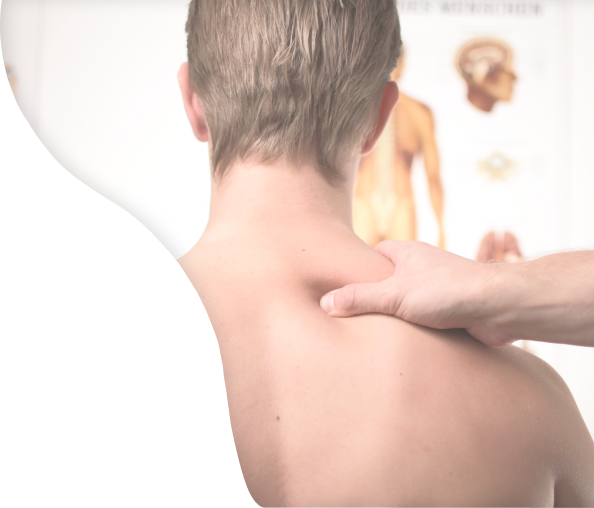
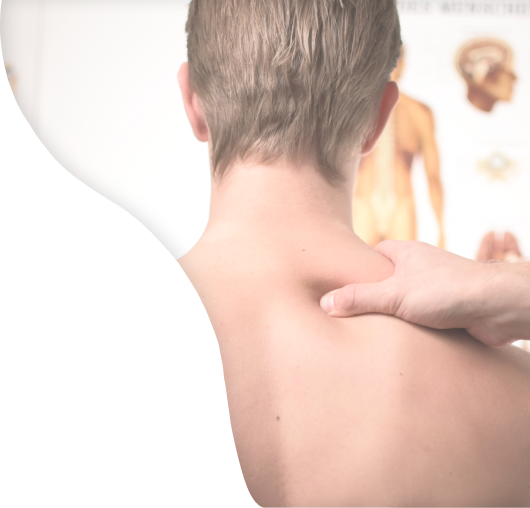
fixes

diff --git a/css/main.css b/css/main.css
@@ -4,8 +4,7 @@ body {
 }
 
 a:hover,
-button:hover,
-label:hover {
+button:hover {
   font-weight: 500;
 }
 
@@ -91,7 +90,7 @@ section:nth-child(2n + 1) {
   content: "";
   width: 100%;
   height: 100%;
-  background: linear-gradient(to bottom, transparent, #f8f8f8);
+  background: linear-gradient(hsla(0,0%,100%,0),#fff 68.7%);
   position: absolute;
   top: 0;
   left: 0;
@@ -202,11 +201,11 @@ section:nth-child(2n + 1) {
   display: flex;
   flex-direction: column;
   justify-content: center;
-  background-image: url(/Salud/res/hero-backg-mob.png),
-    url(/res/hero-backg-mob.png);
+  background-image: url(/Salud/res/hero-backg-desk1.png),
+    url(/res/hero-backg-desk1.png);
   background-repeat: no-repeat;
   background-position: right;
-	background-size: cover;
+	background-size: contain;
 }
 
 .heading>* {
@@ -214,17 +213,17 @@ section:nth-child(2n + 1) {
 }
 
 .heading-title {
-  max-width: 40%;
+  max-width: 30%;
   border-bottom: 0.5px solid #686460;
   color: #6a8c9c;
 }
 
 .heading-txt {
-  max-width: 50%;
+  max-width: 40%;
 }
 
 .heading-symptoms {
-	max-width: 60%;
+	max-width: 40%;
 	display: flex;
 	flex-wrap: wrap;
   justify-content: space-between;
@@ -380,26 +379,18 @@ section:nth-child(2n + 1) {
 }
 
 /* OFFER */
-
-
 .offer { 
   min-height: 5vh;
   margin: 15px 0;
   box-shadow: 0px 0px 20px #40bfc2;
-}
-
-.offer .container {
-  height: 100%;
-  justify-content: center;
+  display: flex;
 }
 
 .offer-txt{
   width: 100%;
   text-align: center; 
-  font-family: "Dancing Script";
-  font-size: 1.5rem;
+  font-size: 1.125rem;
 }
-
 
 /* SECTION CONTACTS */
 .contact {
@@ -498,7 +489,7 @@ section:nth-child(2n + 1) {
   }
 
 .heading {
-  background-image: url(/res/hero-backg-tab.png);
+  background-image: url(/Salud/res/hero-backg-tab.png), url(/res/hero-backg-tab.png);
 }
 
   .summary-value {
@@ -551,22 +542,84 @@ section:nth-child(2n + 1) {
 
   .mob-headbar {
     display: block;
-    background-image: url(/Salud/res/Logo.svg);
-    background-color: #f8f8f8;
+    background-image: url(/Salud/res/Logo.svg), url(/res/Logo.svg);
     background-repeat: no-repeat;
     background-size: 34px;
     background-position: 5%;
     height: 60px;
+    display: flex;
+    justify-content: flex-end;
+    align-items: center;
+  }
+
+  .mob-menu-btn {
+    display: block;
+    position: relative;
+    overflow: hidden;
+    width: 50px;
+    height: 50px;
+    font-size: 0;
+    text-indent: -9999px;
+    -webkit-appearance: none;
+       -moz-appearance: none;
+            appearance: none;
+    box-shadow: none;
+    border: none;
+    border-radius: none;
+    cursor: pointer;
+    -webkit-transition: background 0.3s;
+    transition: background 0.3s;
+  }
+
+  .mob-menu-btn span {
+    display: block;
+    position: absolute;
+    top: 50%;
+    left: 18px;
+    right: 18px;
+    height: 2px;
+    background: #686460;
+  }
+  .mob-menu-btn span::before, .mob-menu-btn span::after {
+    position: absolute;
+    display: block;
+    left: 0;
+    width: 100%;
+    height: 2px;
+    background-color: #686460;
+    content: "";
+  }
+  .mob-menu-btn span::before {
+    top: -5px;
+    transition-property: top, transform;
+  }
+  .mob-menu-btn span::after {
+    bottom: -5px;
+    transition-property: bottom, transform;
+  }
+  
+  /* when menu open: */
+  .mob-menu-btn.open span {
+    background: none;
+  }
+
+  .mob-menu-btn.open span::before {
+    top: 0;
+    transform: rotate(45deg);
+  }
+
+  .mob-menu-btn.open span::after {
+    bottom: 0;
+    transform: rotate(-45deg);
   }
 
   .heading {
-    background-image: url(/Salud/res/hero-backg-mob.png);
-    height: 214px;
+    background-image: url(/Salud/res/hero-backg-mob.png), url(/res/hero-backg-mob.png);;
     display: flex;
     flex-direction: column;
     justify-content: center;
     background-repeat: no-repeat;
-    background-size: cover;
+    background-size: contain;
     justify-content: space-around;
   }
 

diff --git a/js/main.js b/js/main.js
@@ -2,23 +2,16 @@ class Popup {
 	constructor(element) {
 		this.elem = document.querySelector(element);
 		this.isOpen = false;
-		this.onDocumentClick = this.onDocumentClick.bind(this);
 	}
 
 	openPopup() {
-		this.elem.classList.add("open");
-		// document.addEventListener("click", this.onDocumentClick);
+		this.elem.classList.add('open');
 		this.isOpen = true;
 	}
 
 	closePopup() {
-		this.elem.classList.remove("open");
-		// document.removeEventListener("click", this.onDocumentClick);
+		this.elem.classList.remove('open');
 		this.isOpen = false;
-	}
-
-	onDocumentClick(event) {
-		if (!this.elem.contains(event.target)) this.closePopup();
 	}
 
 	togglePopup() {
@@ -27,7 +20,7 @@ class Popup {
 	}
 
 	setValue(title, value) {
-		this.elem.querySelector(".title").innerHTML = title;
+		this.elem.querySelector('.title').innerHTML = title;
 	}
 }
 
@@ -45,7 +38,7 @@ const selectLang = () => {
 			element.classList.add('d-none');
 		}
 	});
-}
+};
 
 const onSelectLangClick = () => {
 	if (event.target.className == 'title') {
@@ -56,7 +49,7 @@ const onSelectLangClick = () => {
 	} else if (!langPopup.elem.contains(event.target)) {
 		langPopup.closePopup();
 	}
-}
+};
 
 document.addEventListener('click', onSelectLangClick);
 
@@ -67,13 +60,13 @@ const popupContainer = document.querySelector('.popup');
 const openTextPopup = () => {
 	popupContainer.innerHTML = event.target.previousElementSibling.innerHTML;
 	textPopup.openPopup();
-	document.body.classList.add('popup-wrapper')
-}
+	document.body.classList.add('popup-wrapper');
+};
 
 const closeTextPopup = () => {
-	textPopup.closePopup()
-	document.body.classList.remove('popup-wrapper')
-}
+	textPopup.closePopup();
+	document.body.classList.remove('popup-wrapper');
+};
 
 const onReadMoreClick = () => {
 	if (event.target.classList.contains('read-more')) {
@@ -81,8 +74,18 @@ const onReadMoreClick = () => {
 	} else if (!textPopup.elem.contains(event.target)) {
 		closeTextPopup();
 	}
-}
+};
 
 document.addEventListener('click', onReadMoreClick);
 
+/* Mobile Menu */
+// const mobMenu = new Popup('.mob-menu');
+const mobMenuBtn = document.querySelector('.mob-menu-btn');
 
+const onMobMenuBtnClick = () => {
+	if (event.target.classList.contains('mob-menu-btn')) {
+		mobMenuBtn.classList.add('open')
+	}
+}
+
+document.addEventListener('click', onMobMenuBtnClick)

diff --git a/index.html b/index.html
@@ -44,7 +44,12 @@
         </ul>
       </div>
     </header>
-    <div class="mob-headbar"></div>
+    <div class="mob-headbar">
+      <div class="mob-menu"></div>
+      <button class="mob-menu-btn">
+        <span></span>
+      </button>
+    </div>
     <div class="heading lang lang-en">
       <h1 class="heading-title">
         Book now your FREE 10 minute check-ups or a treatment.

diff --git a/css/norm&fonts.css b/css/norm&fonts.css
@@ -102,6 +102,12 @@ p, a, button {
 	font: inherit
 }
 
+button {
+	background-color: inherit;
+	border: none;
+}
+
 button:focus {
 	background-color: inherit;
+	outline: none;
 }
